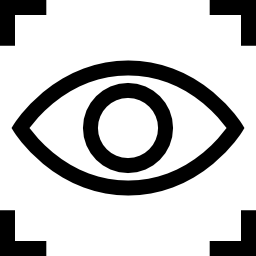
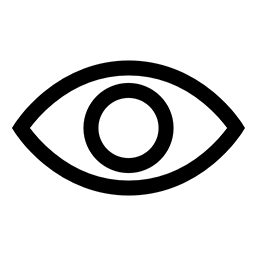
Retoques no botão view

diff --git a/css/style.css b/css/style.css
@@ -36,9 +36,26 @@
     border: 1px solid green;
 }
 
-.btn{
+#btn-login{
     width: 88px;
     height: 40px;
+}
+
+#btn-view{
+    padding: 0;
+    width: 32px;
+    height: 32px;
+    border: 1px solid #313131;
+    box-shadow: -1px 2px 0 #313131, -2px 4px 0 #313131 !important;
+}
+
+#btn-view:hover{
+    background-color: #fff0d7;
+}
+
+#btn-view:active{
+    background-color: #ffdc9f;
+    box-shadow: inset -2px 2px 0 #313131 !important;
 }
 
 .btn-primary{

diff --git a/index.php b/index.php
@@ -19,7 +19,7 @@
                 <img src="img-icon/agenda/256x256.png" alt="agenda" width="56" height="56" class="logo-header d-inline-block align-text-center"><p id="texto-header">Lista de Tarefas</p>
             </a>
 
-            <button type="button" class="btn btn-primary">Login</button>
+            <button type="button" id="btn-login" class="btn btn-primary">Login</button>
         </div>
 
     </nav>
@@ -36,7 +36,7 @@
                     <th scope="col">Título</th>
                     <th scope="col">Descrição</th>
                     <th scope="col">Data</th>
-                    <th scope="col">Edit</th>
+                    <th scope="col">Editar</th>
                     <th scope="col">Excluir</th>
                     <th scope="col">Ver</th>
                 </tr>
@@ -51,8 +51,8 @@
                         <td>Aqui vai a descrição da tarefa</td>
                         <td>13/06/2023</td>
                         <td><a href="#"><img src="img-icon/edit/512x512.png" alt="icon" width="24" height="24" class="icon-edit"></a></td>
-                        <td><a href="#"><img src="img-icon/remove/512x512.png" alt="icon" width="24" height="24" class="icon-edit"></a></td>
-                        <td><a href="#"><img src="img-icon/view/512x512.png" alt="icon" width="24" height="24" class="icon-edit"></a></td>
+                        <td><a href="#"><img src="img-icon/remove/512x512.png" alt="icon" width="24" height="24" class="icon-remove"></a></td>
+                        <td><button type="button" id="btn-view" class="btn btn-glass" data-bs-toggle="modal" data-bs-target="#janelaModal"><img src="img-icon/view/512x512.png" alt="icon" width="24" height="24" class="icon-view"></button></td>
                 </tr>
                 <tr>
                     <th scope="row"><input type="checkbox" id="status" name="check-status" value="xxx"></th>
@@ -61,8 +61,8 @@
                         <td>Aqui vai a descrição da tarefa</td>
                         <td>13/06/2023</td>
                         <td><a href="#"><img src="img-icon/edit/512x512.png" alt="icon" width="24" height="24" class="icon-edit"></a></td>
-                        <td><a href="#"><img src="img-icon/remove/512x512.png" alt="icon" width="24" height="24" class="icon-edit"></a></td>
-                        <td><a href="#"><img src="img-icon/view/512x512.png" alt="icon" width="24" height="24" class="icon-edit"></a></td>
+                        <td><a href="#"><img src="img-icon/remove/512x512.png" alt="icon" width="24" height="24" class="icon-remove"></a></td>
+                        <td><button type="button" id="btn-view" class="btn btn-glass" data-bs-toggle="modal" data-bs-target="#janelaModal"><img src="img-icon/view/512x512.png" alt="icon" width="24" height="24" class="icon-view"></button></td>
                 </tr>
                 <tr>
                     <th scope="row"><input type="checkbox" id="status" name="check-status" value="xxx"></th>
@@ -71,23 +71,20 @@
                         <td>Aqui vai a descrição da tarefa</td>
                         <td>13/06/2023</td>
                         <td><a href="#"><img src="img-icon/edit/512x512.png" alt="icon" width="24" height="24" class="icon-edit"></a></td>
-                        <td><a href="#"><img src="img-icon/remove/512x512.png" alt="icon" width="24" height="24" class="icon-edit"></a></td>
-                        <td><a href="#"><img src="img-icon/view/512x512.png" alt="icon" width="24" height="24" class="icon-edit"></a></td>
+                        <td><a href="#"><img src="img-icon/remove/512x512.png" alt="icon" width="24" height="24" class="icon-remove"></a></td>
+                        <td><button type="button" id="btn-view" class="btn btn-glass" data-bs-toggle="modal" data-bs-target="#janelaModal"><img src="img-icon/view/512x512.png" alt="icon" width="24" height="24" class="icon-view"></button></td>
                 </tr>
 
             </tbody>
         </table>
 
-        <div class="btns">
-            <button type="button" class="btn btn-primary" data-bs-toggle="modal" data-bs-target="#exampleModal">Modal</button>
-        </div>
-        
-        <div class="modal fade" id="exampleModal" tabindex="-1" aria-labelledby="exampleModalLabel" aria-hidden="true">
+        <!--Modal-->
+        <div class="modal fade" id="janelaModal" tabindex="-1" aria-labelledby="janelaModalLabel" aria-hidden="true">
 
             <div class="modal-dialog modal-dialog-scrollable">
                 <div class="modal-content">
                     <div class="modal-header">
-                        <h1 id="titulo-modal" class="modal-title fs-5" id="exampleModalLabel">Título da tarefa</h1>
+                        <h1 id="titulo-modal" class="modal-title fs-5" id="janelaModalLabel">Título da tarefa</h1>
                         <button type="button" class="btn-close" data-bs-dismiss="modal" aria-label="Close"></button>
                     </div>
                     <div class="modal-body">
